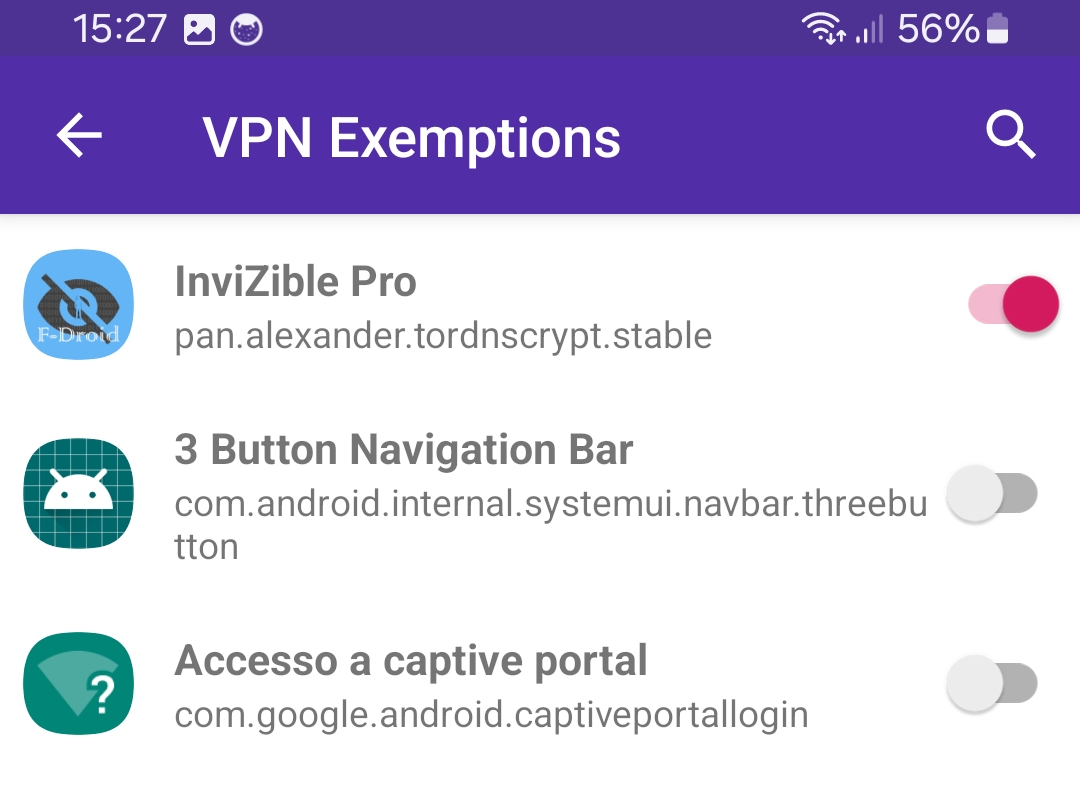
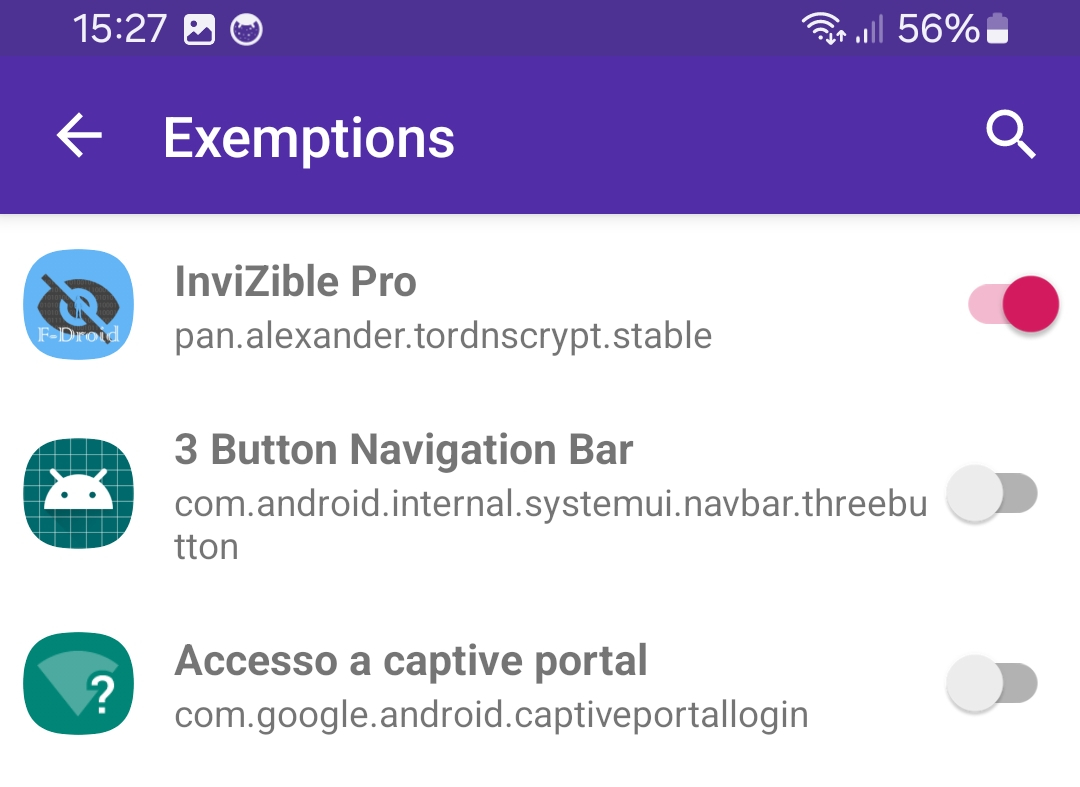
Update docs to use port mapping exemptions

Changed region(s): [[0.1528, 0.122, 0.5806, 0.2135]]

diff --git a/advanced_features.md b/advanced_features.md
@@ -22,15 +22,15 @@ To do this, you need to:
   <img src="./images/invizible_5.jpg" width="250" />
   </p>
 
-3\. In the PCAPdroid settings, add InviZible to the VPN Exemptions. This is necessary to avoid traffic loops
-  <p align="center">
-  <img src="./images/invizible_1.jpg" width="250" />
-  </p>
-
-4\. Add two port mapping rules to PCAPdroid, one for TCP and one for UDP, to redirect the DNS traffic from port 53 to port 5354, where the InviZible proxy is listening
+3\. Add two port mapping rules to PCAPdroid, one for TCP and one for UDP, to redirect the DNS traffic from port 53 to port 5354, where the InviZible proxy is listening
   <p align="center">
   <img src="./images/invizible_2.jpg" width="250" />
   <img src="./images/invizible_3.jpg" width="250" />
+  </p>
+
+4\. From the 3 dots menu, add InviZible to the port mapping Exemptions. This is necessary to avoid traffic loops.
+  <p align="center">
+  <img src="./images/invizible_1.jpg" width="250" />
   </p>
 
 5\. Start the PCAPdroid capture. DNS requests should now be redirected to InviZible proxy and then encrypted. In the Connections view, these are marked with a back arrow icon.
